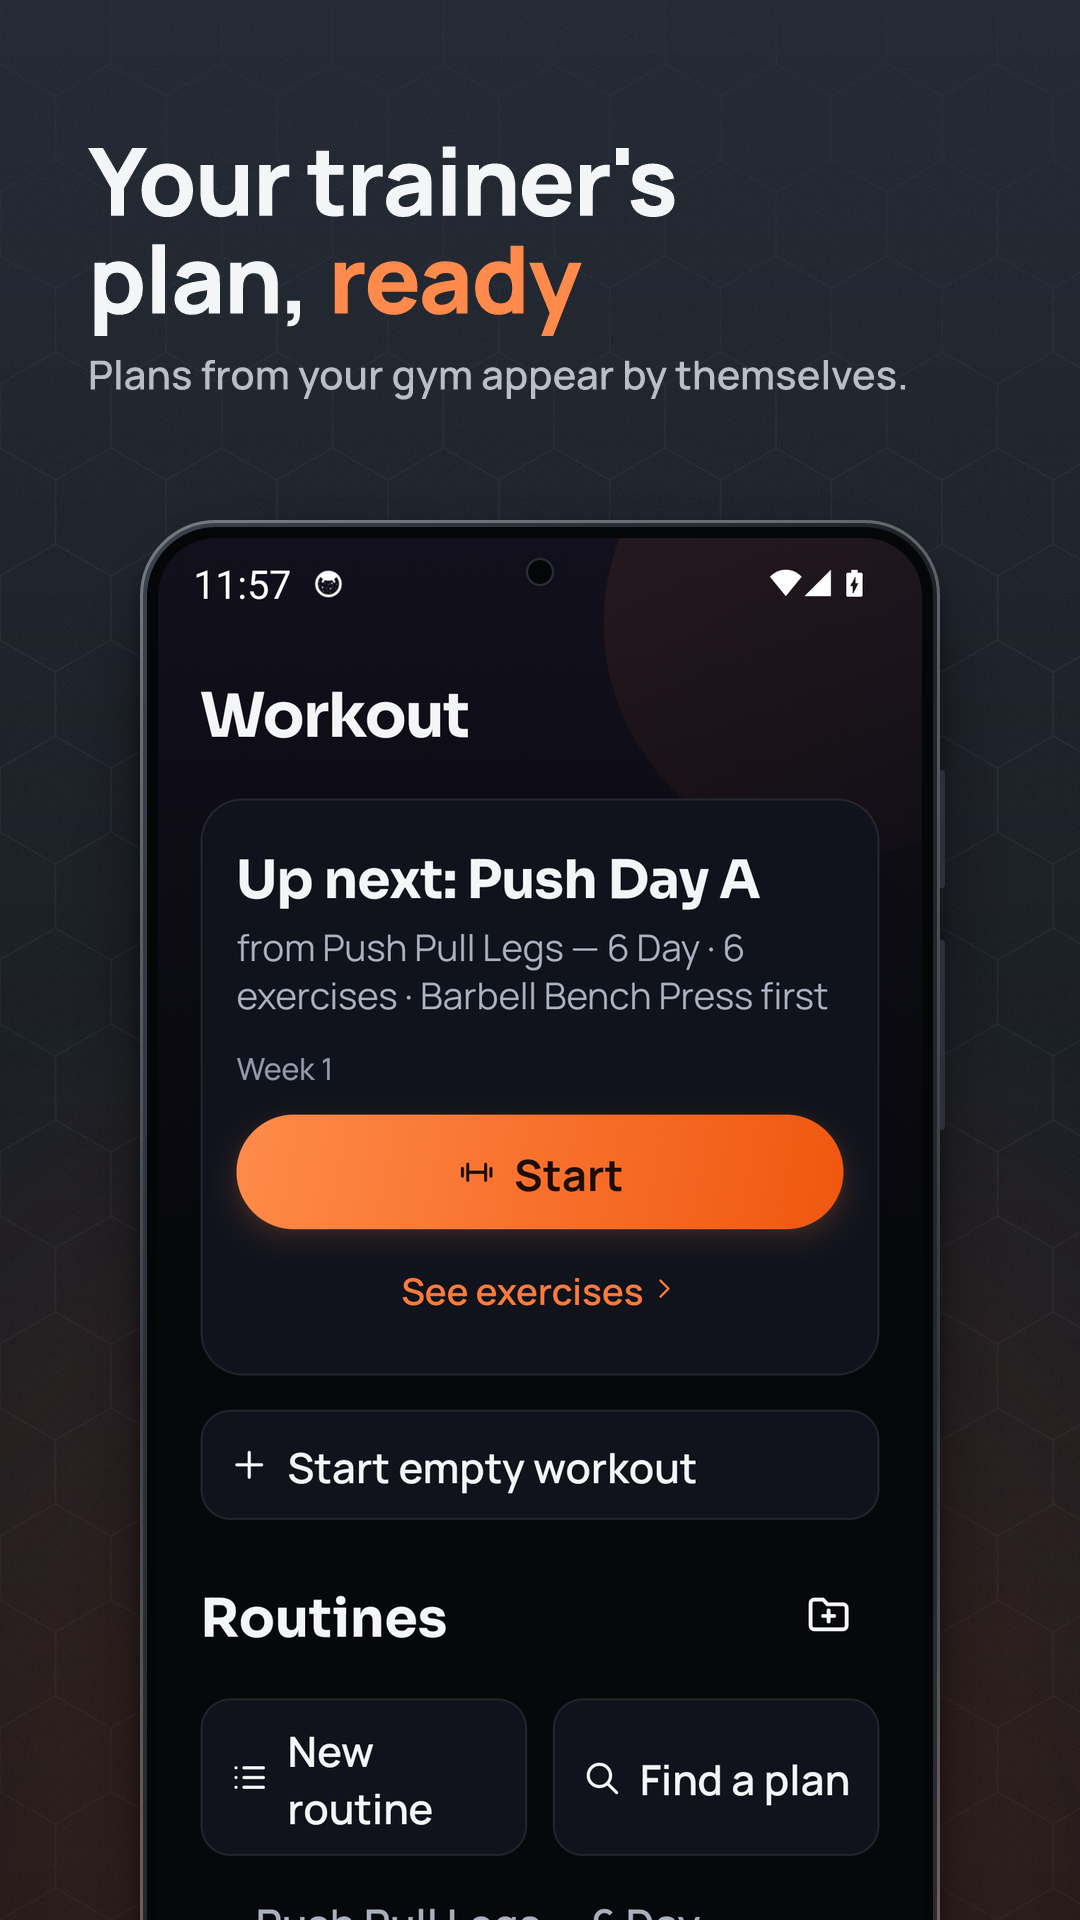
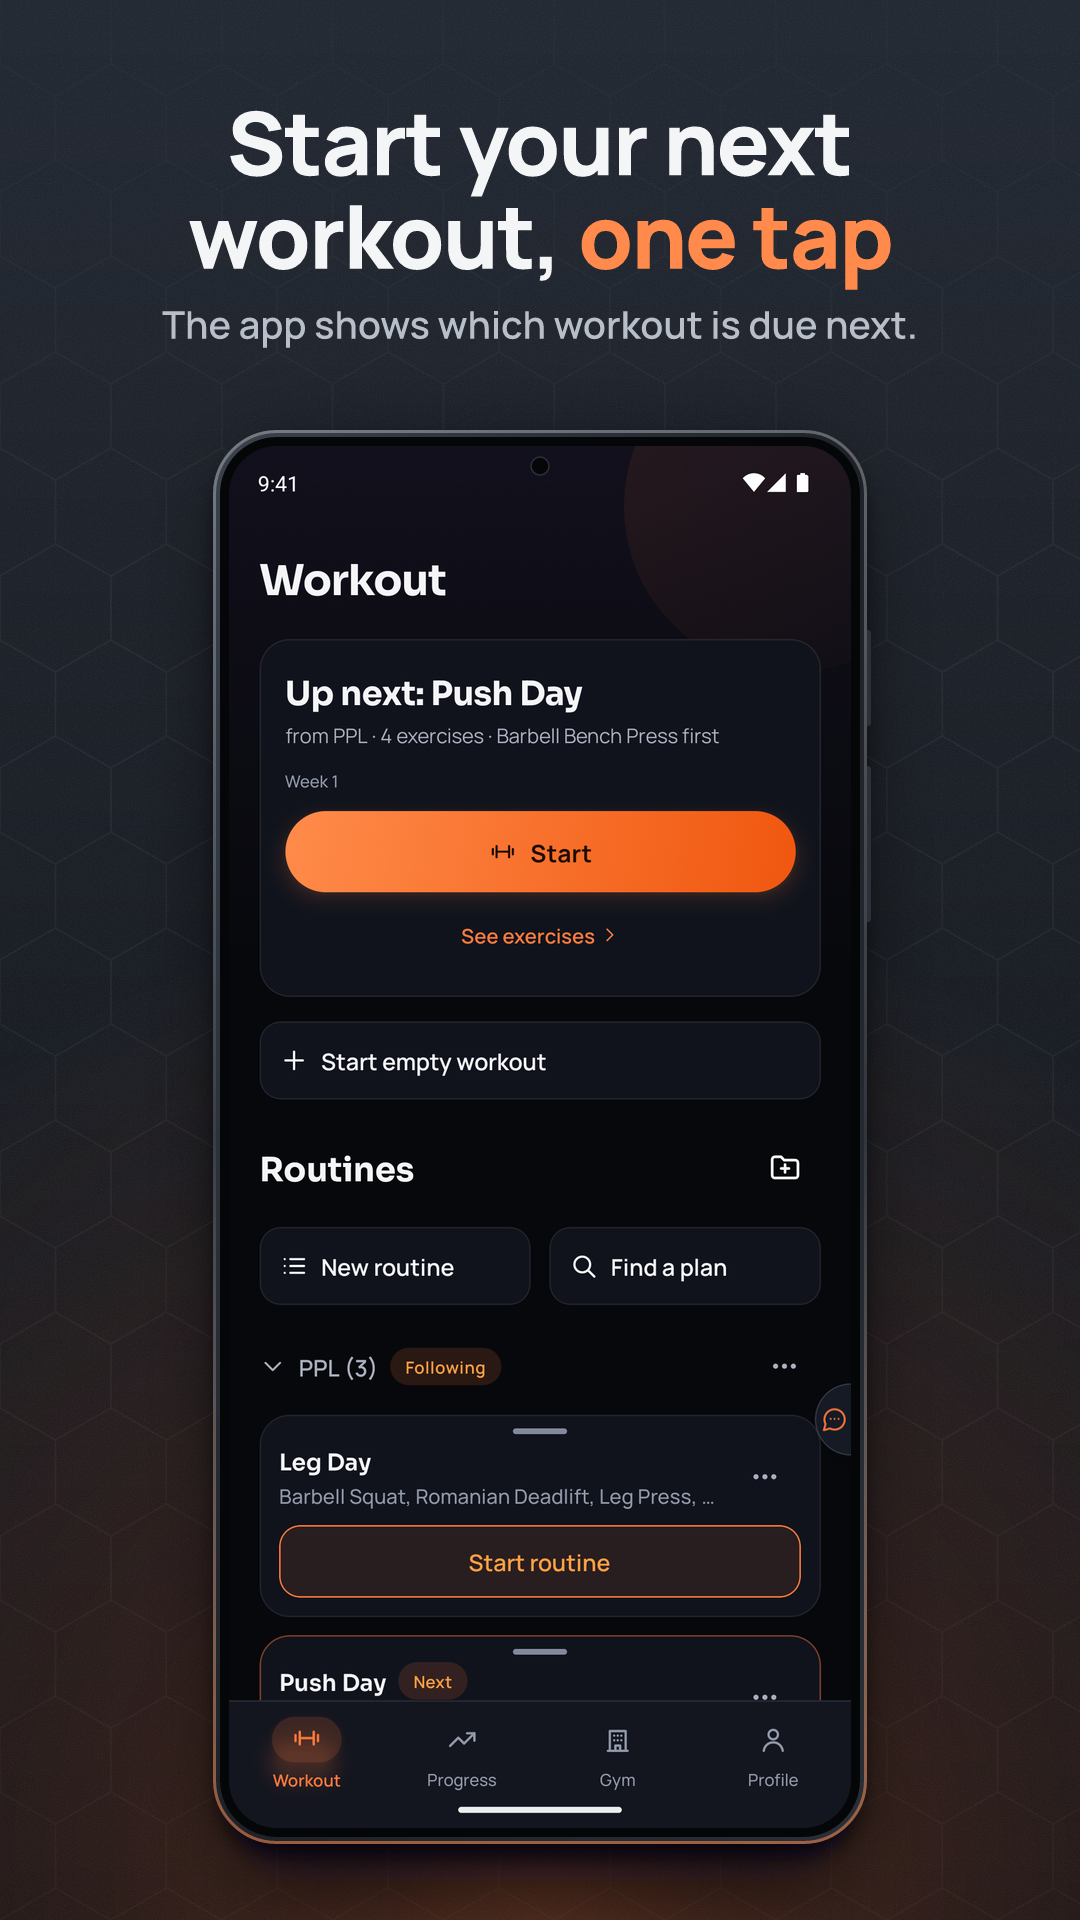
Play Store screenshots: 8 fresh shots, no panorama (R-249)
- store/out/shot-01..08 from store-shots run 41183932405 (v0.64.0 code):
  workout with last time's numbers, record pop-up, workout complete, Up next,
  bench chart, body map, join your gym, find a plan.
- captions.json: new captions matched to each screen; panorama [] (the
  barbell across 1+2 is gone). BRAND.md points to captions.json.
- play_listing.py uploads all 8; tests updated. Not uploaded yet.

Changed region(s): [[0.0917, 0.0312, 0.8861, 1.0]]

diff --git a/scripts/ci/play_listing.py b/scripts/ci/play_listing.py
@@ -5,9 +5,8 @@
 
 Run by .github/workflows/play-listing.yml (manual). In one Play edit:
   1. deletes every en-US phone screenshot, then uploads branding/mettleup/store/out/shot-0N.png in
-     SCREENSHOT_ORDER (Play shows them in upload order; shots 1 and 2 are the barbell panorama pair
-     and must sit side by side, first). Shot 4 is left out: its caption ("Your trainer's plan,
-     ready") does not match its screen.
+     SCREENSHOT_ORDER (Play shows them in upload order). R-249 (31 Oct 2026): all 8, each a picture
+     on its own (no panorama pair any more), every caption checked against its screen.
   2. replaces the feature graphic (1024x500) and the icon (512x512).
   3. --with-text: title, short and full description from branding/mettleup/store/listing-draft.txt.
   4. reads the screenshots back, names each by its SHA-256, and stops (nothing committed) unless the
@@ -26,7 +25,7 @@ from play_common import PACKAGE, fail, finish_edit, log, service  # noqa: E402
 
 ROOT = os.path.abspath(os.path.join(os.path.dirname(os.path.abspath(__file__)), "..", ".."))
 STORE = os.path.join(ROOT, "branding", "mettleup", "store")
-SCREENSHOT_ORDER = [1, 2, 3, 5, 6, 7, 8]  # shot 4 excluded: its caption doesn't match its screen
+SCREENSHOT_ORDER = [1, 2, 3, 4, 5, 6, 7, 8]  # R-249: all 8, no panorama pair
 FEATURE_GRAPHIC = os.path.join(STORE, "feature-graphic-1024x500.png")
 ICON = os.path.join(STORE, "play-icon-512.png")
 LISTING_TEXT = os.path.join(STORE, "listing-draft.txt")

diff --git a/scripts/ci/test_play_scripts.py b/scripts/ci/test_play_scripts.py
@@ -204,14 +204,11 @@ class ReviewRefusals(unittest.TestCase):
 
 
 class ScreenshotOrder(unittest.TestCase):
-    def test_order_without_shot_4(self):
-        self.assertEqual(pl.SCREENSHOT_ORDER, [1, 2, 3, 5, 6, 7, 8])
+    def test_all_eight_in_order(self):
+        # R-249: every shot stands alone; no panorama pair to keep side by side.
+        self.assertEqual(pl.SCREENSHOT_ORDER, [1, 2, 3, 4, 5, 6, 7, 8])
         names = [os.path.basename(p) for p in pl.screenshot_paths()]
-        self.assertEqual(names, ["shot-01.png", "shot-02.png", "shot-03.png", "shot-05.png",
-                                 "shot-06.png", "shot-07.png", "shot-08.png"])
-
-    def test_panorama_pair_comes_first_side_by_side(self):
-        self.assertEqual(pl.SCREENSHOT_ORDER[:2], [1, 2])
+        self.assertEqual(names, [f"shot-0{n}.png" for n in range(1, 9)])
 
     def test_committed_files_pass_plays_rules(self):
         for p in pl.screenshot_paths():

diff --git a/branding/mettleup/BRAND.md b/branding/mettleup/BRAND.md
@@ -171,13 +171,6 @@ renders `brand/*.png` from `brand/mark.svg`. Use one or the other; whichever run
 
 Tagline: **Stronger every week.**
 
-| # | Headline | Sub line | Screen to show |
-|---|---|---|---|
-| 1 (panorama, left) | Your gym, in your **pocket** | Log workouts, check in, see progress. | Home / today's workout |
-| 2 (panorama, right) | Every set. Every rep. **Logged.** | Tap a set the moment it's done. | A workout in progress |
-| 3 | Beat **last week's** weight | Last time's numbers sit beside every set. | An exercise with last time's numbers |
-| 4 | Rest timer on your **lock screen** | Know when to lift again, without unlocking. | Lock screen with the timer |
-| 5 | Check in with **one scan** | Scan the code at your gym's front desk. | The check-in scan |
-| 6 | See your **strength** grow | A chart for every lift, week by week. | A lift's progress chart |
-| 7 | Works without **internet** | No signal in the gym? Keep logging. | A workout logged offline |
-| 8 | **Free** with your gym | Your gym sets you up. You just train. | The join / welcome screen |
+The 8 screenshot captions live in ONE place: `store/captions.json` (headline, sub line, and the screen
+each one shows). R-249, 31 Oct 2026: each shot stands alone (no panorama pair); the pictures come from
+the store-shots run named in its `_source` line. Never copy them here: a second list drifts.

diff --git a/docs/CLAUDE-NOTES.md b/docs/CLAUDE-NOTES.md
@@ -23,7 +23,7 @@ Did: owner desk, member page: a "Change start date" button on a plan that has no
 
 He said: "once you're done with everything that you're doing we can also now start updating the screenshots on Google Play Store to also fix that continuous two screenshot theme and ensure it's all like accurate up to date as for the app today"
 
-Did: (after R-248)
+Did: fresh pictures from store-shots run 41183932405 on the v0.64.0 code (normal Pixel 6, 09:41 bar, Iron Temple Fitness, +876 kg finish). Panorama and barbell gone: every shot stands alone. 8 new captions (member-words; Gemini down with 503, fresh-reader check instead) in store/captions.json; BRAND.md now points there. Upload list is all 8. NOT uploaded: the Play listing upload waits for his yes.
 
 ## R-248. Member app: offer the watch app when a watch is connected; 2-3 welcome screens — 31 Oct 2026
 
